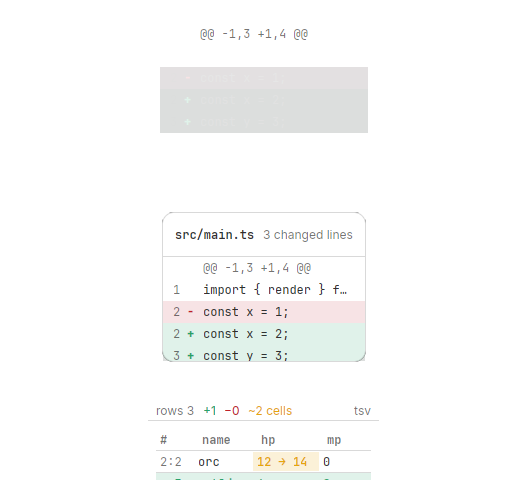
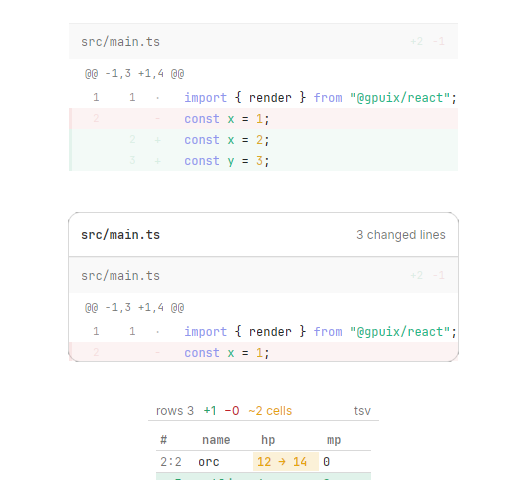
chore(vcs): delete the framed/header prop and summarizePatch comments from DiffPanel

diff --git a/src/components/vcs/DiffPanel.tsx b/src/components/vcs/DiffPanel.tsx
@@ -5,16 +5,14 @@ import {
   type PublicInstance,
   type StyleDesc,
 } from "@gpuix/react";
-import { useAdwaita, type AdwaitaColors } from "../../theme/adwaita";
+import { useAdwaita } from "../../theme/adwaita";
+import { nativeDiffTheme } from "../../theme/vcs";
 import { T } from "../common";
 import { DataTable } from "../DataTable";
 import type { TabularSides } from "../../lib/Tabular";
 
+
 const MAX_DIFF_LINES = 500;
-
-const CHAR_W = 7.2;
-
-const ROW_H = 22;
 
 type DiffLineKind = "add" | "del" | "ctx" | "hunk";
 
@@ -176,11 +174,8 @@ export interface DiffPanelProps {
 
   diffRef?: Ref<PublicInstance>;
 
-  // Draw own border / corners / background. Off by default: inside a Panel
-  // the Panel already owns the chrome, so framing here nests a pane in a pane.
   framed?: boolean;
 
-  // Draw the file-name plus changed-lines bar (for standalone use).
   header?: boolean;
 }
 
@@ -191,7 +186,7 @@ export interface DiffSummaryData {
   changed: number;
 }
 
-// Stats for a patch, for callers that show them in their own panel header.
+
 export function summarizePatch(patch: string): DiffSummaryData {
   const file = parsePatch(patch);
   return {
@@ -234,109 +229,6 @@ export function DiffSummary({
   );
 }
 
-function rowBg(colors: AdwaitaColors, kind: DiffLineKind): string | undefined {
-  switch (kind) {
-    case "add":
-      return colors.successTint;
-    case "del":
-      return colors.destructiveTint;
-    case "hunk":
-      return colors.headerbar_bg;
-    default:
-      return undefined;
-  }
-}
-
-function DiffLineRow({ line, gutterW }: { line: DiffLine; gutterW: number }) {
-  const t = useAdwaita();
-  const { colors, typography, spacing } = t;
-  const mono: Partial<StyleDesc> = { fontFamily: typography.fontFamilyMono };
-  const bg = rowBg(colors, line.kind);
-
-  return (
-    <div
-      style={{
-        display: "flex",
-        flexDirection: "row",
-        alignItems: "stretch",
-        width: "100%",
-        minHeight: ROW_H,
-        ...(bg ? { backgroundColor: bg } : {}),
-      }}
-    >
-      <div
-        style={{
-          display: "flex",
-          alignItems: "center",
-          justifyContent: "flex-end",
-          width: gutterW,
-          flexShrink: 0,
-          paddingLeft: 2,
-          paddingRight: 2,
-        }}
-      >
-        {line.no !== null ? (
-          <T size="caption" color={colors.dim_fg} style={mono}>
-            {String(line.no)}
-          </T>
-        ) : null}
-      </div>
-      <div
-        style={{
-          display: "flex",
-          alignItems: "center",
-          justifyContent: "center",
-          width: 16,
-          flexShrink: 0,
-        }}
-      >
-        {line.kind === "add" ? (
-          <T
-            size="caption"
-            weight={700}
-            color={colors.success}
-            style={mono}
-          >
-            {`+`}
-          </T>
-        ) : line.kind === "del" ? (
-          <T
-            size="caption"
-            weight={700}
-            color={colors.destructive}
-            style={mono}
-          >
-            {`-`}
-          </T>
-        ) : null}
-      </div>
-      <div
-        style={{
-          display: "flex",
-          alignItems: "center",
-          flexGrow: 1,
-          minWidth: 0,
-          paddingLeft: 4,
-          paddingRight: spacing.paddingTight,
-        }}
-      >
-        <T
-          size="caption"
-          color={line.kind === "hunk" ? colors.dim_fg : colors.fg}
-          style={{
-            ...mono,
-            whiteSpace: "nowrap",
-            textOverflow: "ellipsis",
-            overflow: "hidden",
-          }}
-        >
-          {line.text.length > 0 ? line.text : " "}
-        </T>
-      </div>
-    </div>
-  );
-}
-
 export function DiffPanel({
   patch,
   tabular = null,
@@ -356,9 +248,6 @@ export function DiffPanel({
   const file = useMemo(() => parsePatch(patch), [patch]);
   const mono: Partial<StyleDesc> = { fontFamily: typography.fontFamilyMono };
   const changed = file.added + file.removed;
-
-  const maxNo = file.lines.reduce((m, l) => Math.max(m, l.no ?? 0), 0);
-  const gutterW = Math.max(2, String(maxNo).length) * CHAR_W + 6;
 
   return (
     <div
@@ -413,21 +302,24 @@ export function DiffPanel({
           </T>
         </div>
       )}
-      <virtual-list
+      <div
         ref={diffRef}
-        estimatedItemHeight={ROW_H}
         style={{
           display: "flex",
           flexDirection: "column",
           flexGrow: 1,
           minHeight: 0,
           alignSelf: "stretch",
+          overflow: "scroll",
         }}
       >
-        {file.lines.map((line, i) => (
-          <DiffLineRow key={i} line={line} gutterW={gutterW} />
-        ))}
-      </virtual-list>
+        <diff
+          patch={patch}
+          wordDiff
+          maxLines={MAX_DIFF_LINES}
+          theme={nativeDiffTheme(t)}
+        />
+      </div>
     </div>
   );
 }
